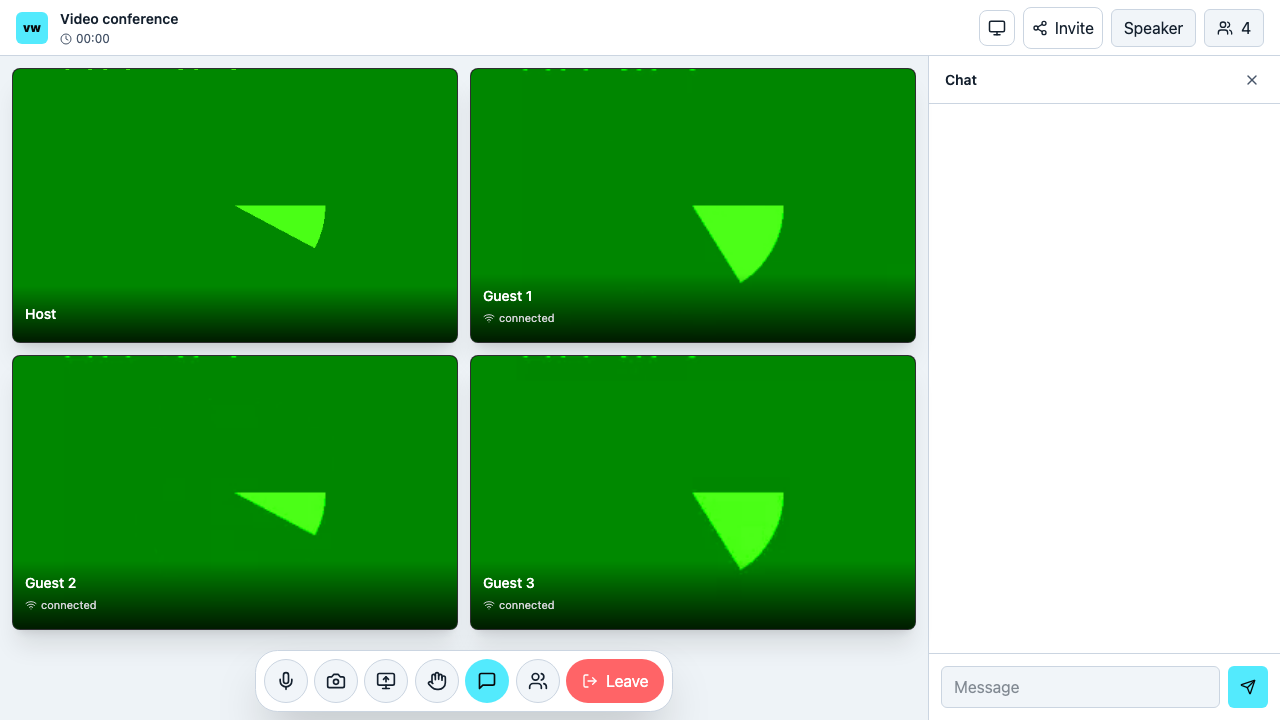
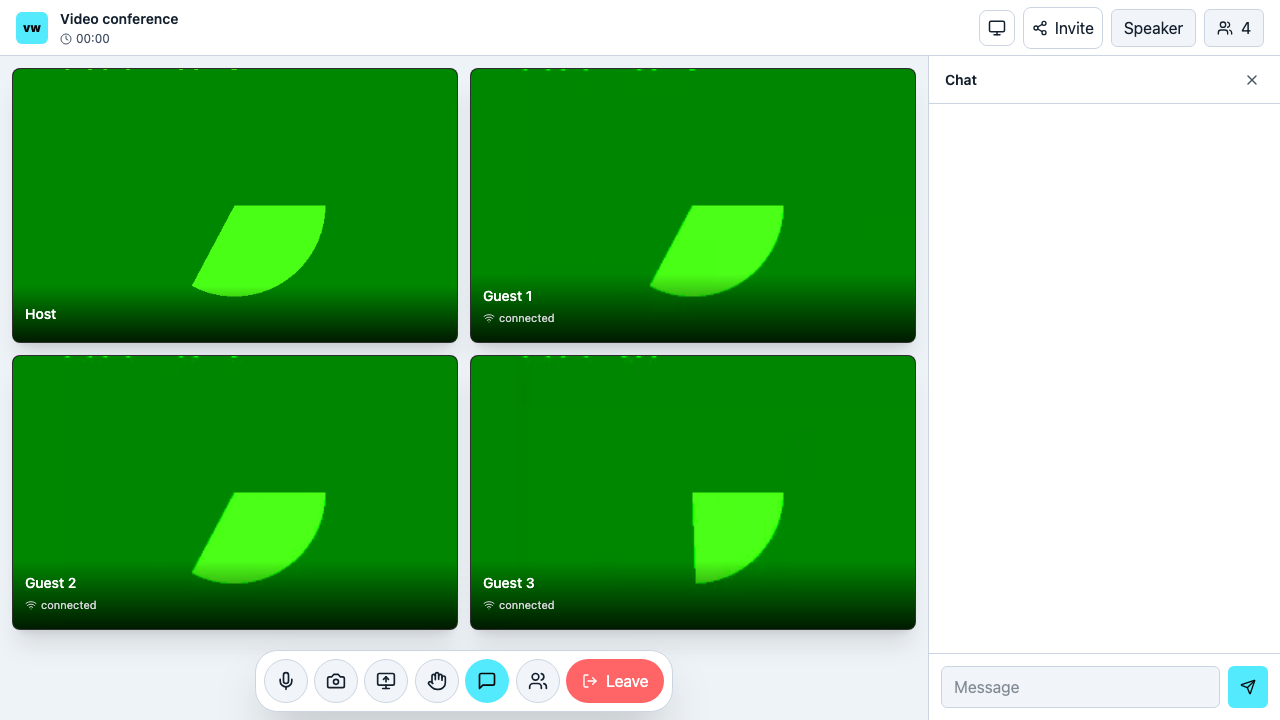
Preserve UTF-8 room titles and publish synchronized 0.2.1 editions

diff --git a/tests/browser/conference.spec.js b/tests/browser/conference.spec.js
@@ -81,3 +81,7 @@ test('theme defaults to system and narrow chat stays below the media without ove
  await page.setViewportSize({width:390,height:844});await open(page,'/','Narrow host',false);const panel=await page.locator('.vwc-panel').boundingBox(),stage=await page.locator('.vwc-stage').boundingBox();expect(panel.y).toBeGreaterThanOrEqual(stage.y+stage.height-1);expect(stage.height).toBeGreaterThan(180);expect(await page.evaluate(()=>document.documentElement.scrollWidth<=innerWidth)).toBe(true);
  await page.getByRole('button',{name:'Theme: system. Switch to light.'}).click();await expect(page.locator('html')).toHaveAttribute('data-theme','light');await page.setViewportSize({width:320,height:640});await expect(page.getByRole('button',{name:'Leave',exact:true})).toBeInViewport();expect(await page.evaluate(()=>document.documentElement.scrollWidth<=innerWidth)).toBe(true);await page.screenshot({path:'docs/screenshots/mobile.png'});
 });
+
+test('UTF-8 room titles survive creation and refresh without splitting characters',async({page})=>{
+ const title='A'+'ă'.repeat(40);await page.goto('/');const form=page.locator('form').filter({has:page.getByRole('button',{name:'Create meeting',exact:true})});await form.getByLabel('Room title').fill(title);await form.getByRole('checkbox').check();await form.getByRole('button').click();await expect(page.getByRole('heading',{name:title,exact:true})).toBeVisible();const url=page.url();await page.reload();expect(page.url()).toBe(url);await expect(page.getByRole('heading',{name:title,exact:true})).toBeVisible();
+});

diff --git a/editions/php/index.php b/editions/php/index.php
@@ -85,7 +85,8 @@ if ($ready) {
                     $access = ($_POST['access'] ?? '') === 'public' ? 'public' : 'private';
                     $accessKey = $access === 'private' ? bin2hex(random_bytes(32)) : '';
                     $title = trim((string) ($_POST['title'] ?? ''));
-                    $state['rooms'][$room] = ['expires' => $now + 3600, 'access' => $access, 'title' => substr($title ?: 'Video conference', 0, 80),
+                    $title = preg_match('/^.{1,80}/us', $title, $titleMatch) ? $titleMatch[0] : 'Video conference';
+                    $state['rooms'][$room] = ['expires' => $now + 3600, 'access' => $access, 'title' => $title,
                         'keyHash' => $accessKey ? hash('sha256', $accessKey) : '', 'members' => []];
                     $_SESSION['rooms'][$room] = ['key' => $accessKey]; $rate['count']++;
                     $state['rates'][$ip] = $rate;
@@ -137,7 +138,7 @@ $consent = 'I agree to connect to this site\'s configured signaling service. Oth
 ?>
 <!doctype html><html lang="en"><head><meta charset="utf-8"><meta name="viewport" content="width=device-width,initial-scale=1"><title>VideoWhisper Video Conference</title><link rel="stylesheet" href="./assets/conference.css?v=<?php echo $e($assetVersion); ?>"><link rel="stylesheet" href="./setup.css?v=<?php echo $e($assetVersion); ?>"></head><body>
 <?php if ($config): ?>
-<div id="root"></div><script nonce="<?php echo $e($nonce); ?>">window.videowhisperConfig=<?php echo json_encode($config, JSON_HEX_TAG | JSON_HEX_AMP | JSON_HEX_APOS | JSON_HEX_QUOT); ?>;</script><script type="module" src="./assets/conference.js?v=<?php echo $e($assetVersion); ?>"></script>
+<div id="root"></div><script nonce="<?php echo $e($nonce); ?>">window.videowhisperConfig=<?php echo json_encode($config, JSON_HEX_TAG | JSON_HEX_AMP | JSON_HEX_APOS | JSON_HEX_QUOT | JSON_INVALID_UTF8_SUBSTITUTE); ?>;</script><script type="module" src="./assets/conference.js?v=<?php echo $e($assetVersion); ?>"></script>
 <?php else: ?>
 <main class="setup"><header class="setup-header"><a class="wordmark" href="<?php echo $e($base); ?>">VideoWhisper</a><button type="button" data-theme-toggle class="vwc-theme-toggle" aria-label="Theme: system. Switch to light." title="Theme: system. Switch to light."><span data-theme-icon aria-hidden="true">◐</span></button></header>
 <h1>Video Conference</h1><p>Meet on your site. Share one invitation to bring up to four people into the same room, with screen sharing and chat.</p>

diff --git a/editions/wordpress/videowhisper-video-conference.php b/editions/wordpress/videowhisper-video-conference.php
@@ -2,7 +2,7 @@
 /**
  * Plugin Name: VideoWhisper Video Conference
  * Description: Small group WebRTC video meetings with chat, screen sharing and a manually configured signaling server.
- * Version: 0.2.0
+ * Version: 0.2.1
  * Requires at least: 6.9
  * Requires PHP: 8.2
  * Author: VideoWhisper.com
@@ -13,7 +13,7 @@
  * Domain Path: /languages
  */
 if (!defined('ABSPATH')) exit;
-define('VWC_VERSION', '0.2.0');
+define('VWC_VERSION', '0.2.1');
 require_once __DIR__ . '/includes/tickets.php';
 
 function vwc_settings(): array { return (array) get_option('vwc_settings', []); }

diff --git a/docs/publishing.md b/docs/publishing.md
@@ -1,6 +1,6 @@
 # Publish the Free conference editions
 
-Owner: VideoWhisper. Candidate: 0.2.0. Audience: small groups and WordPress site owners. The live development demo is https://demo.videowhisper.com/video-conference/ . The shared server must be version 2026.11.10+ with the conference namespace enabled. This is four-person P2P mesh, with no SFU or recording.
+Owner: VideoWhisper. Candidate: 0.2.1. Audience: small groups and WordPress site owners. The live development demo is https://demo.videowhisper.com/video-conference/ . The shared server must be version 2026.11.10+ with the conference namespace enabled. This is four-person P2P mesh, with no SFU or recording.
 
 ## Verify the release
 
@@ -12,7 +12,7 @@ The runtime and public-source exports are explicit allowlists. Inspect the ZIP l
 
 1. Use release/WebRTC-Video-Conference/ as the clean source export. Do not initialize Git in the private development tree or copy its public/config.json. Review LICENSE, notices, README and tests.
 2. Create videowhisper/WebRTC-Video-Conference at https://github.com/new (select the `videowhisper` owner) . Use GPL-2.0-or-later, the verified PHP demo as website, and a description stating small-room self-hostable WebRTC conferencing.
-3. In the clean export, initialize a main branch, add only reviewed files, commit, add the new origin and push. Tag v0.2.0 and create a release containing WebRTC-Video-Conference-0.2.0.zip and its SHA256. Verify a clean clone can npm ci/build and run the synthetic tests.
+3. In the clean export, initialize a main branch, add only reviewed files, commit, add the new origin and push. Tag v0.2.1 and create a release containing WebRTC-Video-Conference-0.2.1.zip and its SHA256. Verify a clean clone can npm ci/build and run the synthetic tests.
 4. The current client can be published with its isolated local test harness and a clear server prerequisite. The managed demo has the conference extension; the corresponding public server source release is still being prepared. Do not imply the older public server main branch already includes conferencing or that every clone is a ready production server. Managed server availability is a separate option, not an account requirement for the software.
 5. Retain the historical PHP-Webcam-Video-Conference repository and its old instructions. After the new repository works, propose a successor notice and archive policy; do not silently replace its code.
 
@@ -20,7 +20,7 @@ Deploy only editions/php runtime files to an HTTPS path. Configure VWC_SOCKET_UR
 
 ## Submit the WordPress Free plugin
 
-1. The permanent proposed slug/text domain is videowhisper-video-conference. Use release/videowhisper-video-conference-0.2.0.zip. Review the [directory guidelines](https://developer.wordpress.org/plugins/wordpress-org/detailed-plugin-guidelines/), [submission instructions](https://developer.wordpress.org/plugins/wordpress-org/planning-submitting-and-maintaining-plugins/) and [developer FAQ](https://developer.wordpress.org/plugins/wordpress-org/plugin-developer-faq/).
+1. The permanent proposed slug/text domain is videowhisper-video-conference. Use release/videowhisper-video-conference-0.2.1.zip. Review the [directory guidelines](https://developer.wordpress.org/plugins/wordpress-org/detailed-plugin-guidelines/), [submission instructions](https://developer.wordpress.org/plugins/wordpress-org/planning-submitting-and-maintaining-plugins/) and [developer FAQ](https://developer.wordpress.org/plugins/wordpress-org/plugin-developer-faq/).
 2. Check the submitting author's live queue; generally only one new plugin may be under review. Tutor LMS was approved in August; still check the live author queue and coordinate Conference/Elementor submissions before uploading. Confirm the company-owned account/email and plugin-name ownership.
 3. Review server/provider disclosures, participant consent, no-store responses, guest defaults, optional service links, complete Free functionality, bundled source/licenses and localization. The technical four-person limit is explicit, not a paid unlock. CRM registration is deferred; there are no hidden Pro features or automatic external calls on activation.
 4. Complete clean install/upgrade and minimum/current WordPress/PHP checks, Plugin Check, [official readme validation](https://wordpress.org/plugins/developers/readme-validator/) and real browser/device checks. Use authentic synthetic-media screenshots. A development preview alone is not directory production-readiness evidence.
@@ -37,6 +37,6 @@ Add the PHP demo under Try Standalone Apps on the Demo page. Keep development-pr
 
 ## Owner submission handoff
 
-Use the exact reviewed 0.2.0 ZIP and SHA256 from release/SHA256SUMS and the current release-readiness report. The main wordpress/ handoff copy must be byte-identical. Confirm the live author queue and complete ownership/compliance attestations yourself at https://wordpress.org/plugins/developers/add/ . Preparing the ZIP is not a submission receipt. Include the screenshot assets from the companion assets/ directory after approval; keep them outside the plugin runtime ZIP.
+Use the exact reviewed 0.2.1 ZIP and SHA256 from release/SHA256SUMS and the current release-readiness report. The main wordpress/ handoff copy must be byte-identical. Confirm the live author queue and complete ownership/compliance attestations yourself at https://wordpress.org/plugins/developers/add/ . Preparing the ZIP is not a submission receipt. Include the screenshot assets from the companion assets/ directory after approval; keep them outside the plugin runtime ZIP.
 
 Record physical-device/two-network coverage and locale review accurately. The automated suite covers synthetic multi-browser media, private invitation acceptance/denial, public presence, hand feedback, themes, narrow panel layout and WordPress authorization. Existing manual test evidence must not be relabeled as coverage of every device. Private invitation keys in URLs are scoped room capabilities, never service-account tokens.

diff --git a/README.md b/README.md
@@ -2,7 +2,7 @@
 
 Free, self-hostable video meetings for small groups, with camera/microphone, optional screen sharing, chat, gallery/speaker layouts, hand raising and host controls. The same React client runs in the PHP standalone edition and WordPress plugin.
 
-**Try the [live conference demo](https://demo.videowhisper.com/video-conference/).** Create a room once, then copy its invitation into another browser or send it to your participants. Free edition 0.2.0 includes PHP and WordPress hosts. This is a peer-to-peer mesh application with a technical maximum of four participants. A low-bandwidth profile helps small meetings fit developer hosting plans; screen sharing uses additional plan resources. It has no recording, SFU, file transfer or shared playback.
+**Try the [live conference demo](https://demo.videowhisper.com/video-conference/).** Create a room once, then copy its invitation into another browser or send it to your participants. Free edition 0.2.1 includes PHP and WordPress hosts. This is a peer-to-peer mesh application with a technical maximum of four participants. A low-bandwidth profile helps small meetings fit developer hosting plans; screen sharing uses additional plan resources. It has no recording, SFU, file transfer or shared playback.
 
 ![Conference gallery with synthetic test participants](docs/screenshots/gallery.png)
 
@@ -57,7 +57,7 @@ Browser PINs are signed bearer credentials scoped to one account, user, room, ro
 
 ## WordPress Free edition
 
-Public plugin source is in `editions/wordpress/`. The development workspace keeps its canonical copy under `wordpress/videowhisper-video-conference/trunk/`. Install the generated `videowhisper-video-conference-0.2.0.zip` after reviewing the release gates. Requires WordPress 6.9+ and PHP 8.2+; use a currently supported PHP hosting branch.
+Public plugin source is in `editions/wordpress/`. The development workspace keeps its canonical copy under `wordpress/videowhisper-video-conference/trunk/`. Install the generated `videowhisper-video-conference-0.2.1.zip` after reviewing the release gates. Requires WordPress 6.9+ and PHP 8.2+; use a currently supported PHP hosting branch.
 
 Configure Video Conferences > Settings with a **dedicated** account, then create and publish a Video Conference. Use **Open conference** in the meeting list/editor to open its frontend URL and **Invite** to share it. `[videowhisper_conference id="123"]` is available for optional embedding. Signed-in users who can edit the meeting are hosts; other signed-in participants are guests. New meetings require signed-in members by default. Private mode allows guests holding a complete invitation with its access key. Public mode allows anyone with the room URL. Existing access settings are preserved. Private keys can be replaced in the editor; this rejects previous invitations/credentials on new connections, without disconnecting participants already present. No block, schedule or LMS adapter is claimed in v1.
 
